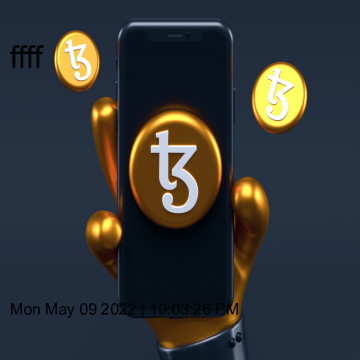
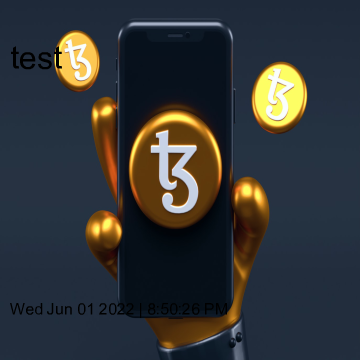
production ready mvp

diff --git a/index.js b/index.js
@@ -20,39 +20,7 @@ app.use(cors())
 //app.use(bodyParser.urlencoded({extended: true }));
 app.use(bodyParser.json({extended: true }));
 
-
-
-app.get('/', async (req,res)=>{
-    console.log("HI")
-    res.send("hi")
-})
-
-app.get('/test', async (req,res)=>{
-    res.send("hello world")
-})
-
-app.get('/new', async(req,res)=>{
-    //Return newest listings ie the OLDEST JSONS
-})
-
-app.post('/search', async(req,res)=>{
-    //Return listing based on param DATE, MSG
-    const searchParams = req.body //.date .msg
-
-})
-
-app.post('/gallery', async(req,res)=>{
-    //
-    const galleryParams = req.body // .startToken, .numberOfTokens
-
-    let result = await jsonTools.readGallery()
-    res.json(result)
-
-
-})
-
 app.post('/createImg', async(req,res)=>{
-    console.log("createi mg casllsed")
 
     let createImgParams= {
         msg: req.body.message,
@@ -61,41 +29,41 @@ app.post('/createImg', async(req,res)=>{
         userAddress:req.body.userAddress,
         color: req.body.color
     }
-    console.log(createImgParams.msg)
-    await imgTools.createImg(createImgParams)
-    await delay(500);//Delay ensures that frontend will query the image after its updated
-    res.json("Create Img Success")
+
+    const createdImage = await imgTools.createImg(createImgParams, async result=>{
+        if(result=="Success"){
+            await delay(500);//Delay ensures that frontend will query the image after its updated
+            res.json("Success")
+        }else{
+            res.json("Error")
+        }
+    })
+
+
+
 })
 
 app.post('/createImgPath', async(req,res)=>{
     let userAddress = req.body.userAddress
-    let randomNumber = req.body.randomNumber
-    try {
+    let msg = req.body.msg
+    let randomNumber = Math.random().toString(36).slice(2)
+    console.log("createimgpath called")
         //Check if the filepath exists
         if (!fs.existsSync(`./public/nft${randomNumber}.png`)) {
-            console.log("GOT HERE")
             //Count number of pics to get tokenId
-            fs.readdir("./public/nft", (err, files) => {
-                let tokenId = files.length -1
-                fs.copyFile(`./public/draft/${userAddress}.png`, `./public/nft/${randomNumber}.png`, (err) => {
+            jsonTools.totalAmountOfTokens(result=>{
+                console.log(result)
+                let tokenId = result + 1
+                console.log(randomNumber)
+                fs.copyFile(`./public/draft/${userAddress}.png`, `./public/img/${randomNumber}.png`, (err) => {
                     if (err) {console.log(err)};
+                    jsonTools.addTokenToJson(userAddress,msg,randomNumber)
                     res.json(tokenId)
                   });
-              });
+            })
         }else{
-            res.json("tokenId path exists")
+            res.json("tokenId exists")
         }
-      } catch(err) {
-        console.error(err)
-      }
-
-
-
-})
-
-
-app.post('/withdraw', async(req,res)=>{
-    
 })
 
 app.get('/draft/:address', async (req,res)=>{
@@ -103,7 +71,13 @@ app.get('/draft/:address', async (req,res)=>{
     res.sendFile(__dirname + '/public/draft/'+ req.params.address);
 })
 app.get('/nft/:tokenId', (req,res)=>{
-    res.sendFile(__dirname+`/public/nft/${req.params.tokenId}.png`);
+    jsonTools.getMetaData(req.params.tokenId, (result)=>{
+        res.send(result)
+    })
+})
+
+app.get('/img/:tokenId', (req,res)=>{
+    res.sendFile(__dirname+`/public/img/${req.params.tokenId}.png`);
 })
 
 app.listen(port, ()=>{

diff --git a/json-tools.js b/json-tools.js
@@ -1,29 +1,49 @@
 fs = require('fs');
-dataDir = './public/data/'
+dataDir = './public/data'
 
-var templateFileName = dataDir + 'template.json';
-var template = JSON.parse(fs.readFileSync(templateFileName).toString());
-
-var galleryFileName = dataDir + 'gallery.json';
+var galleryFileName = dataDir + '/gallery.json';
 
 
 module.exports = {
-    totalAmountOfTokens: function(){
-        fs.readdir(dataDir+'nft', (err, files) => {
-            return(files.length);
-            });
+    getMetaData: function(tokenStringId, callback){
 
+        const file = JSON.parse(fs.readFileSync(`${dataDir}/nft/${tokenStringId}.json`).toString());
+        callback(file)
     },
-    readGallery: async function(){
+    totalAmountOfTokens: function(callback){
+
         var gallery = JSON.parse(fs.readFileSync(galleryFileName).toString());
-        return gallery.tokens
+        gallery.tokens.length
+        console.log(gallery.tokens)
+        const returnable = gallery.tokens.length
+        callback(returnable);
     },
-    mintToken: function(tokenId, owner, msg, imgPath){
-            newTokenObject = template
-            newTokenObject.tokenId = tokenId
+    addTokenToJson: function(owner, msg, imgPath){
+        console.log("addtokentoJson")
+        this.totalAmountOfTokens(tokenId => {
+            newTokenObject = {}
+            newTokenObject.tokenId = tokenId + 1
             newTokenObject.owner=owner
-            newTokenObject.msg=msg
-            fs.writeFileSync(`${dataDir}${tokenId}.json`, JSON.stringify(newTokenObject))
+            newTokenObject.description=msg
+            newTokenObject.image = `https://blockchainstories.xyz/img/${imgPath}`
+            newTokenObject.attributes=[
+                {
+                    "trait_type": "Date", 
+                    "value": new Date().toDateString() 
+                  }, 
+                  {
+                    "trait_type": "Message", 
+                    "value": msg
+                  }
+            ]
+            fs.writeFileSync(`${dataDir}/nft/${tokenId}.json`, JSON.stringify(newTokenObject))
+            var gallery = JSON.parse(fs.readFileSync(`${dataDir}/gallery.json`).toString());
+            gallery.tokens.push(newTokenObject)
+            console.log(gallery)
+
+            fs.writeFileSync(`${dataDir}/gallery.json`, JSON.stringify(gallery))
+        })
+
     },
     transferOwner: function(tokenId, oldOwner, newOwner) {
         var oldTokenObject = JSON.parse(fs.readFileSync(`${tokenId}.json`).toString());

diff --git a/img-tools.js b/img-tools.js
@@ -2,8 +2,12 @@ const Jimp = require('Jimp')
 
 
 module.exports = {
-    createImg: async function(params){
+    createImg: async function(params, callback){
         Jimp.read(params.baseImg, async function (err, image) {
+          if(err){
+            callback("Error")
+          }
+          try{
             var font = await Jimp.loadFont(params.color=='black' ? Jimp.FONT_SANS_32_BLACK : Jimp.FONT_SANS_32_WHITE);
             var dateFont = await Jimp.loadFont(dateFontColor = params.color=='black' ? Jimp.FONT_SANS_16_BLACK : Jimp.FONT_SANS_16_WHITE);
             await image
@@ -13,7 +17,14 @@ module.exports = {
                 img.print(dateFont, 10, 300, params.time, 360)
                 .write(`./public/draft/${params.userAddress}.png`); // save
               })
-            }) 
-            return "success"
+              console.log("2")
+
+            callback("Success")
+
+          }catch(e){
+            console.log("3")
+            callback("Error")
+          }
+        })
     }
-}
+  }
